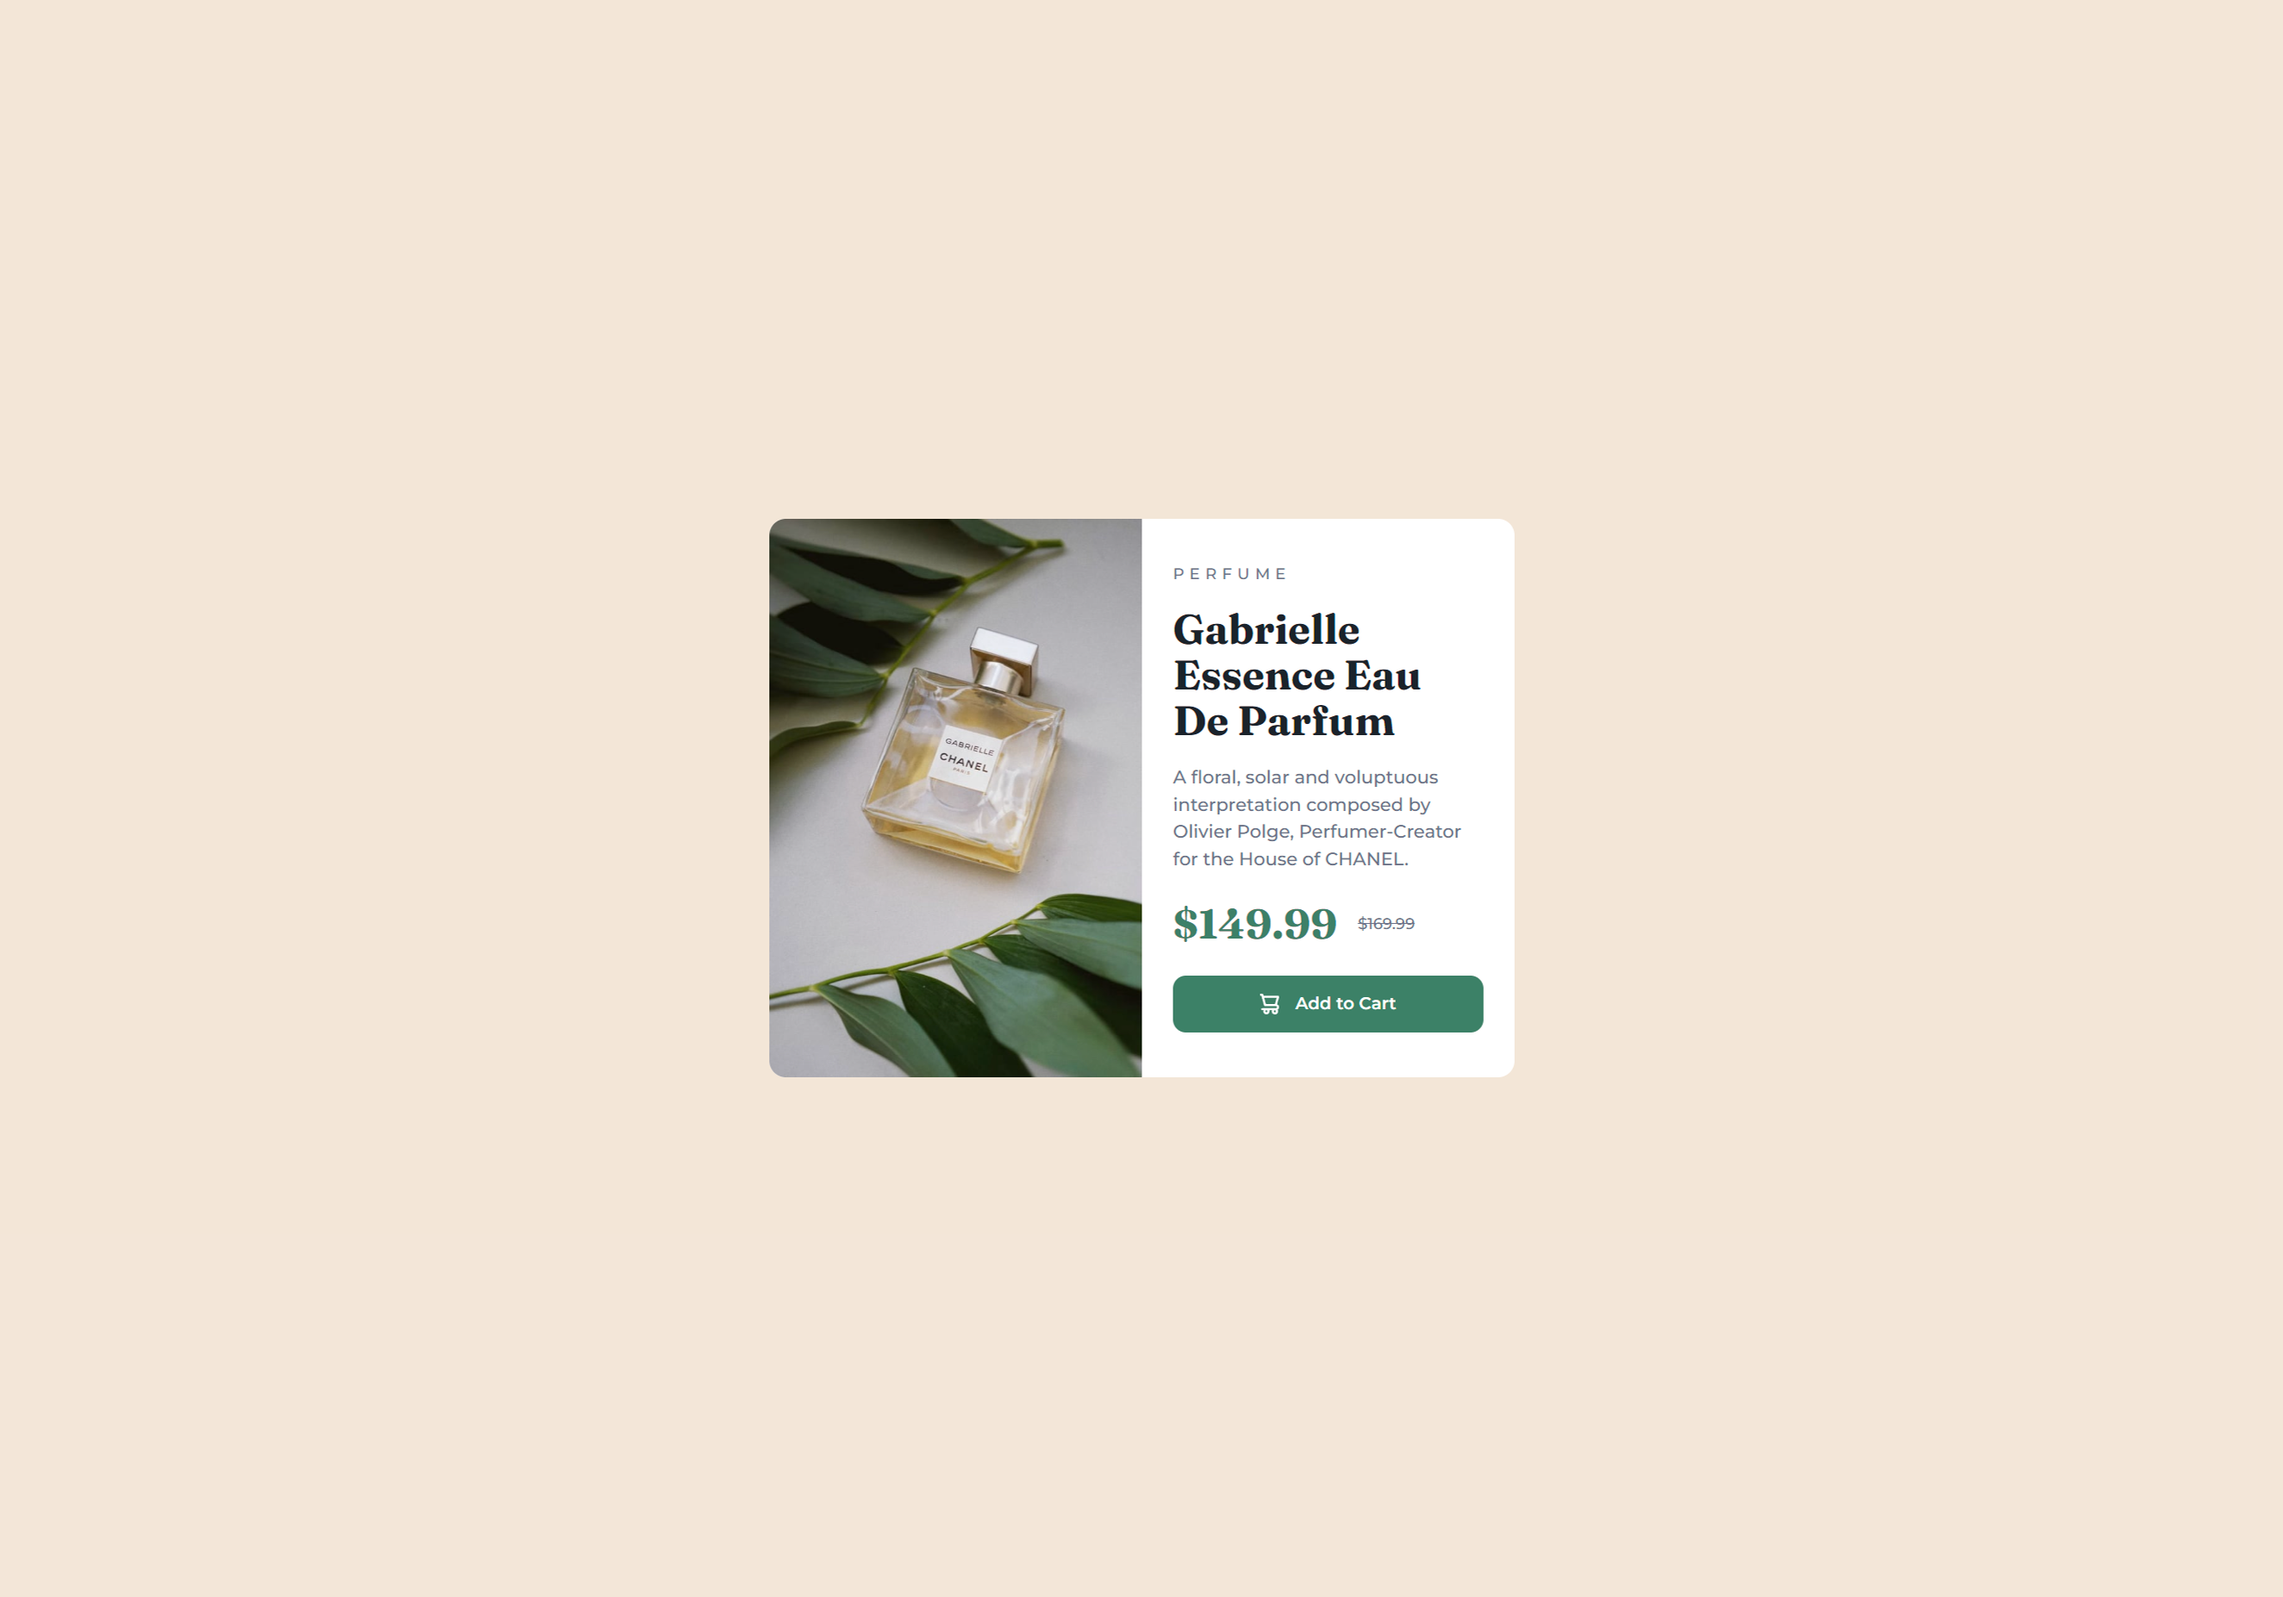
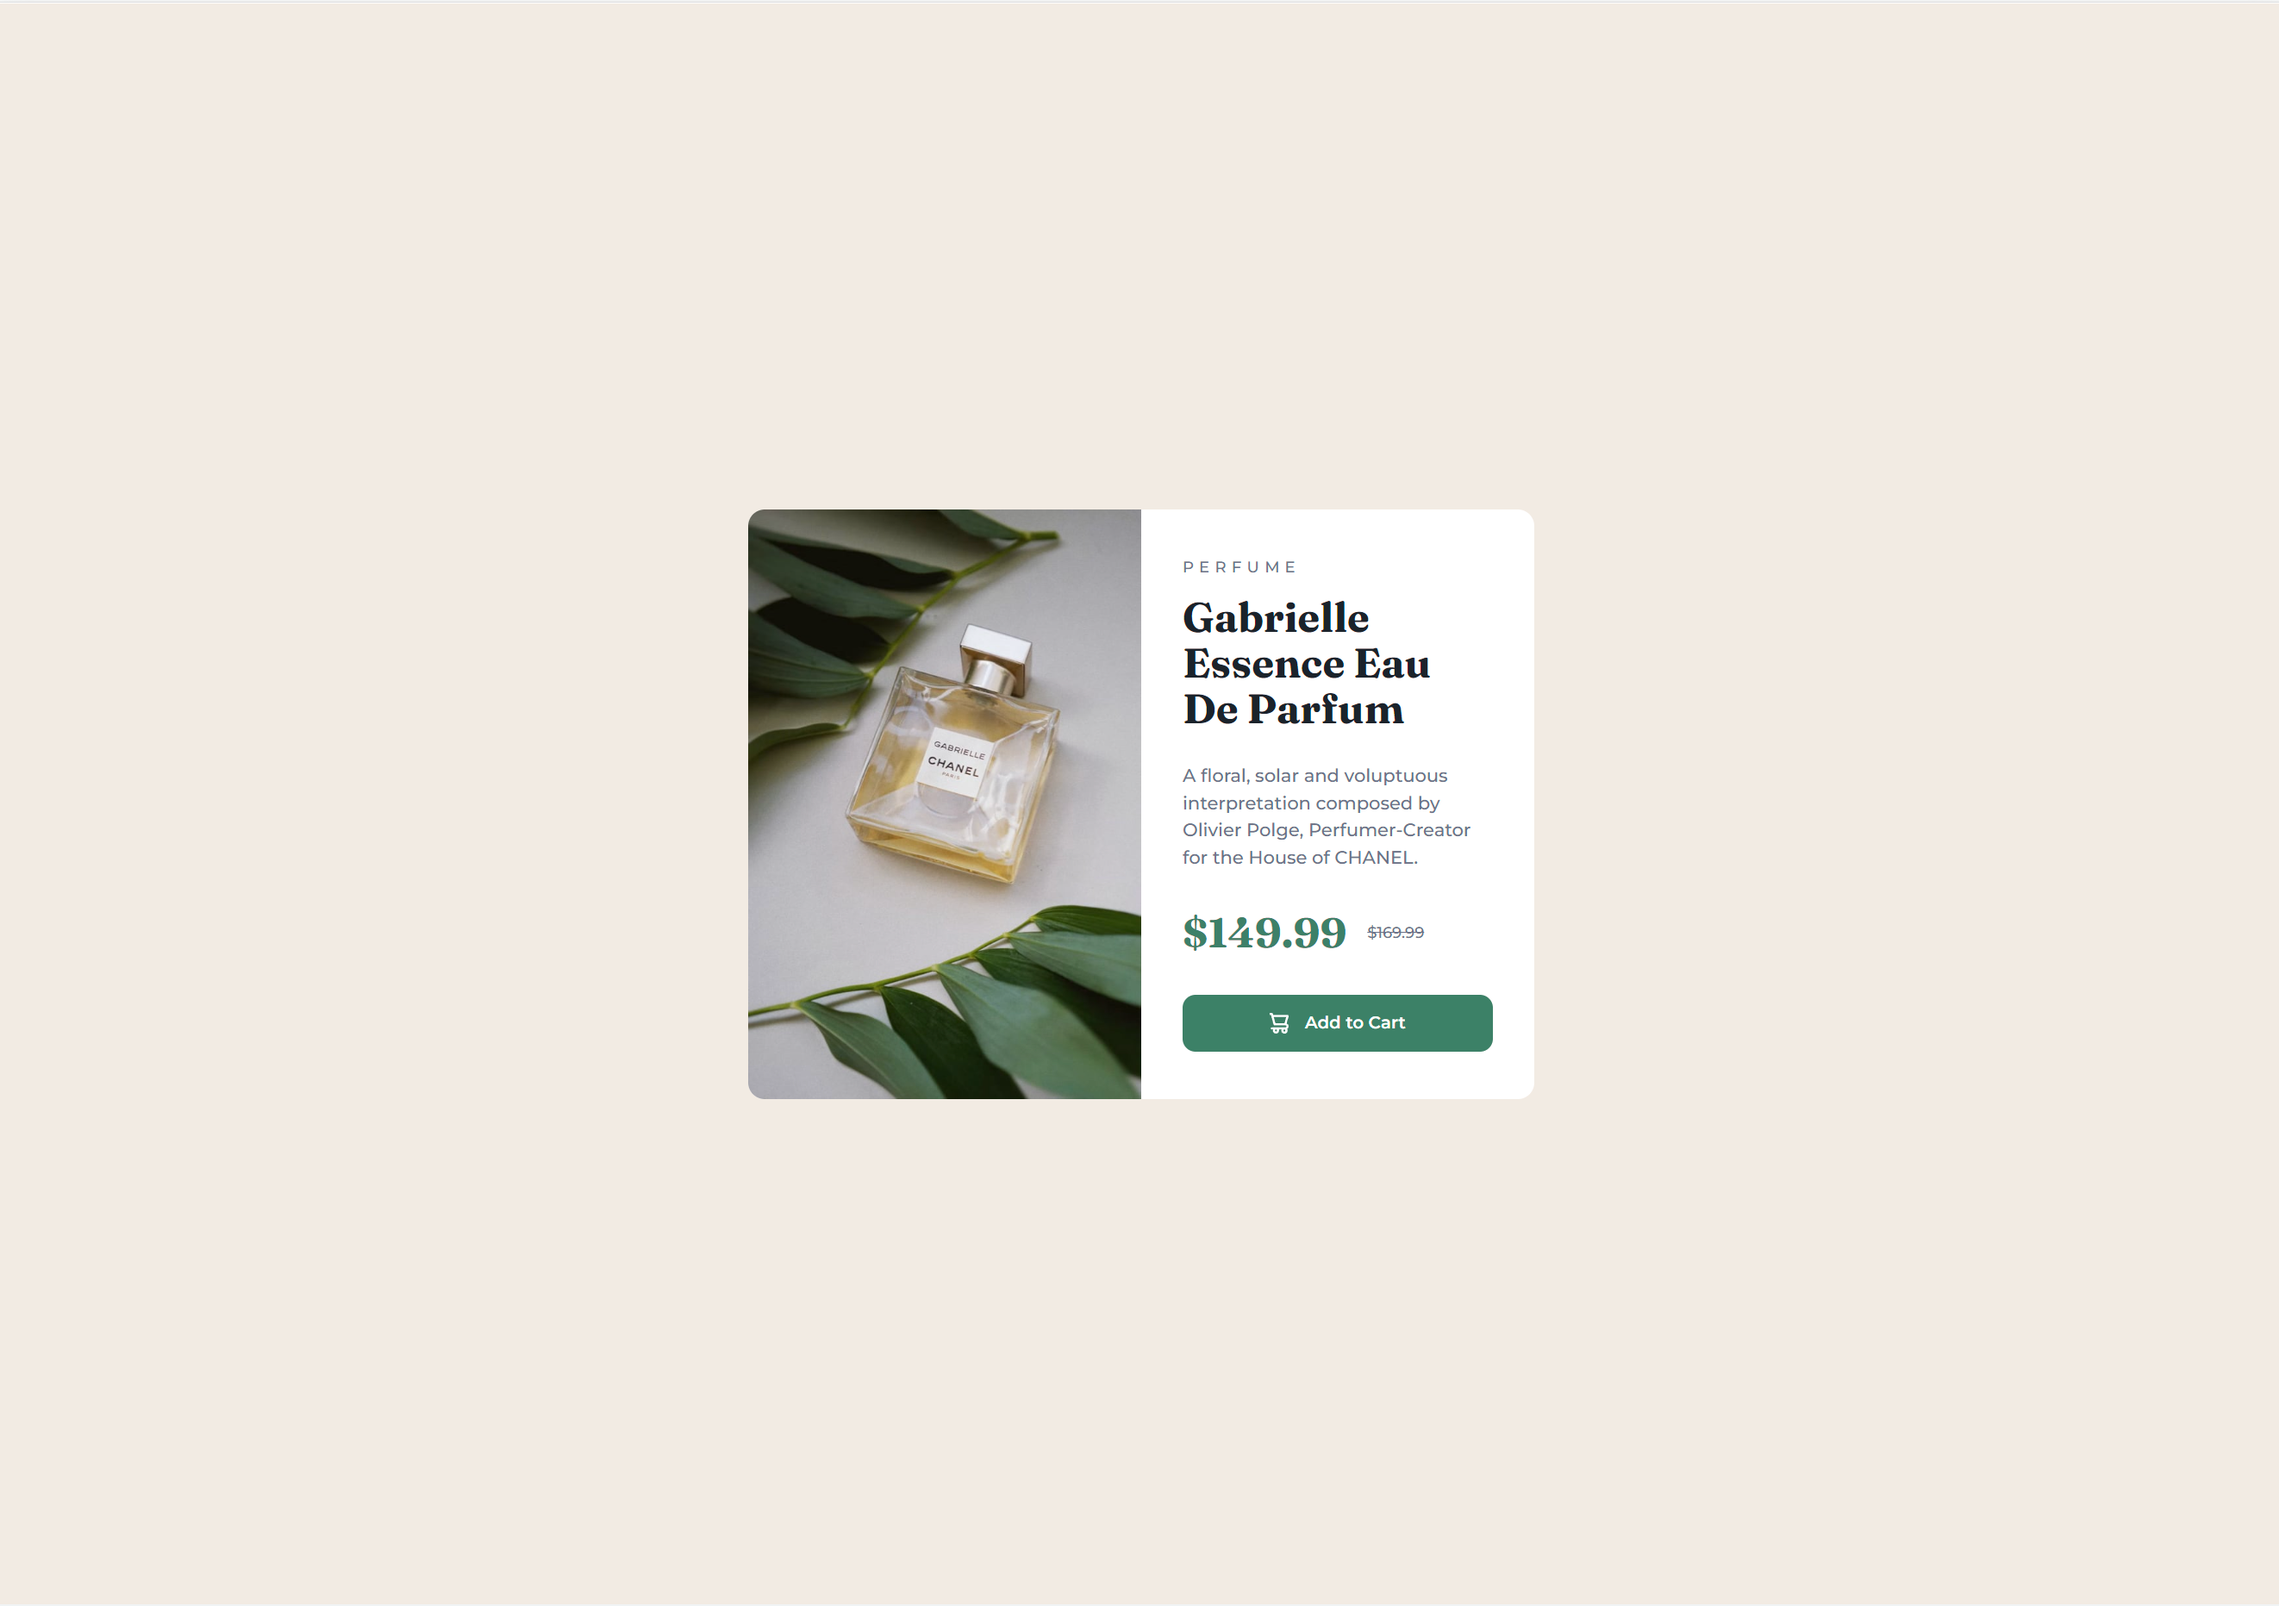
edit css and html and add new scrshot

Changed region(s): [[0.3101, 0.3076, 0.6823, 0.7075]]

diff --git a/main.scss b/main.scss
@@ -55,7 +55,7 @@ $fraunces: 'Fraunces', sans-serif;
     min-height: 100%;
     display: flex;
     justify-content: center;
-    background-color: hsl(30, 54%, 90%); 
+    background-color: $cream; 
     margin-top: 0;
     flex-direction: column;
     align-items: center;
@@ -71,7 +71,7 @@ $fraunces: 'Fraunces', sans-serif;
     display: flex;
     flex-wrap: wrap;
     background-color: $white;
-    border-radius: .8rem .8rem 0 0;
+    border-radius: .8rem;
     margin: 5vw 0 5vw 0;
     max-width: 22rem;
 
@@ -85,11 +85,16 @@ $fraunces: 'Fraunces', sans-serif;
   .card__body {
     display: flex;
     flex-direction: column;
-    padding: 1.75rem 1.5rem 1.75rem 1.5rem;
+    padding: 1.75rem 2rem;
     gap: 1rem;
     justify-content: center;
   }
 
+  .card__titles {
+    display: flex;
+    flex-direction: column;
+    gap: 0.75rem;
+  }
   
 
   .card__subtitle {
@@ -167,8 +172,12 @@ $fraunces: 'Fraunces', sans-serif;
       display: grid;
       grid-template-columns: repeat(2, 1fr);
       border-radius: 0.8rem;
-      max-width: 36rem;
+      max-width: 38rem;
 
+    }
+
+    .card__body {
+        gap: 1.5rem;
     }
 
     .card__image--fixed {

diff --git a/main.css b/main.css
@@ -39,7 +39,7 @@ html, body {
   min-height: 100%;
   display: flex;
   justify-content: center;
-  background-color: hsl(30, 54%, 90%);
+  background-color: hsl(30, 38%, 92%);
   margin-top: 0;
   flex-direction: column;
   align-items: center;
@@ -55,7 +55,7 @@ body {
   display: flex;
   flex-wrap: wrap;
   background-color: hsl(0, 0%, 100%);
-  border-radius: 0.8rem 0.8rem 0 0;
+  border-radius: 0.8rem;
   margin: 5vw 0 5vw 0;
   max-width: 22rem;
 }
@@ -71,6 +71,12 @@ body {
   padding: 1.75rem 2rem;
   gap: 1rem;
   justify-content: center;
+}
+
+.card__titles {
+  display: flex;
+  flex-direction: column;
+  gap: 0.75rem;
 }
 
 .card__subtitle {
@@ -144,6 +150,9 @@ body {
     grid-template-columns: repeat(2, 1fr);
     border-radius: 0.8rem;
     max-width: 38rem;
+  }
+  .card__body {
+    gap: 1.5rem;
   }
   .card__image--fixed {
     border-radius: 0.8rem 0 0 0.8rem;

diff --git a/index.html b/index.html
@@ -24,8 +24,10 @@
       <img class="card__image--fixed" src="images/image-product-mobile.jpg" alt="A luxury parfum in a leafy decor">
     </picture>
     <section class="card__body">
-      <h1 class="card__subtitle">PERFUME</h1>
-      <h2 class="card__title">Gabrielle Essence Eau De Parfum</h2>
+      <section class="card__titles">
+        <h1 class="card__subtitle">PERFUME</h1>
+        <h2 class="card__title">Gabrielle Essence Eau De Parfum</h2>
+      </section>
       <p class="card__copy">A floral, solar and voluptuous interpretation composed by Olivier Polge, Perfumer-Creator for the House of CHANEL.</p>
       <div class="card__prices">
         <h3 class="card__prices--discount">$149.99</h3>
